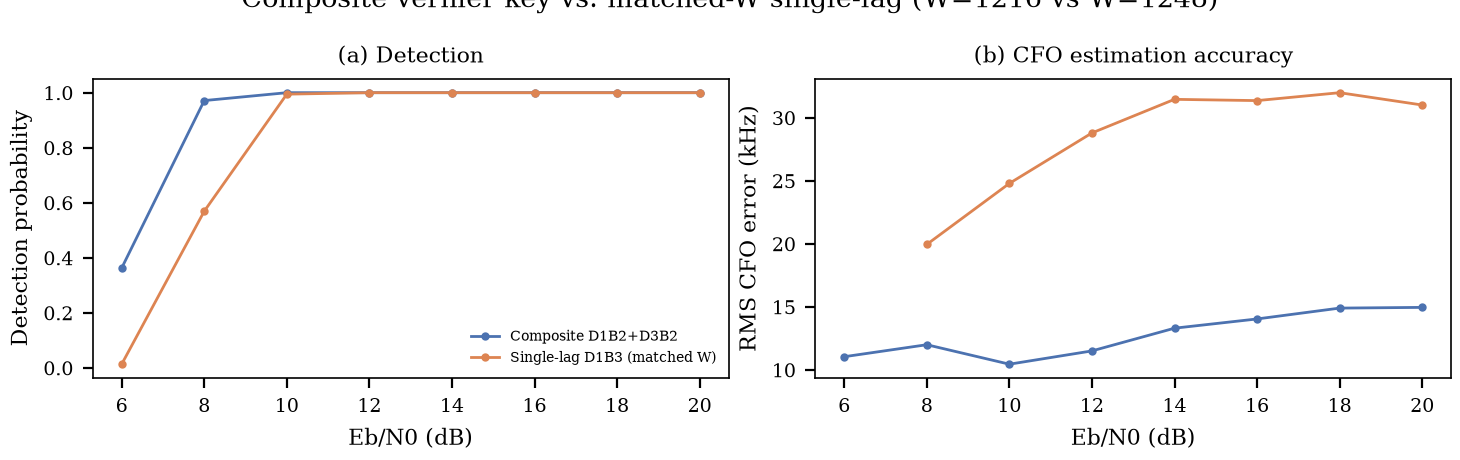
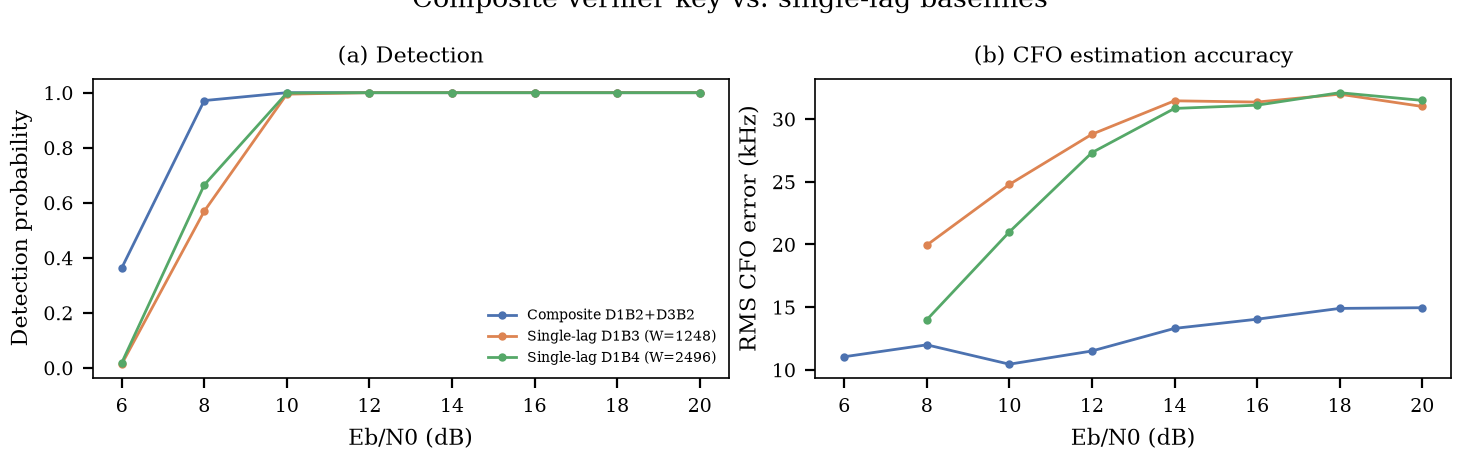
Sweep vernier composite split; retract a misleading quick-screen lead
Swept the noiseless collision check over D_fine in {2,3,4} x B_coarse/B_fine
in {2,3,4} (18 configs): all collision-free, confirming the composite
construction is robust to the split choice on the safety axis. A quick,
low-trial screen with a heuristic tau made D_fine=4 look like a clear
improvement over the original D1B2+D3B2 pick (smaller W, lower RMS).

That lead did not survive full validation. Re-run at the project's actual
methodology (Pfa-calibrated tau at worst-case SNR, 800-1500 trials/point,
checked across 3 seeds), D_fine=4 shows a real, reproducible RMS
*increase* with SNR (backwards -- accuracy should never get worse as noise
drops), likely because run_midpoint's longest-run selection occasionally
locks onto a stable-but-wrong run once noise is too low to break the tie
randomly. D_fine=2 is stable but worse than D_fine=3. D_fine=3
(the original pick) remains both stable and the best of the validated
options -- and turns out to beat an even bigger target than previously
shown: a single-lag baseline at *double* its bit budget (D1B4, W=2496).

Recorded as an explicit methodological lesson in docs/vernier_findings.md:
a small-trial, heuristic-tau screen is only good enough to shortlist
candidates for the (cheap) noiseless collision check -- every RMS/Pd/Pfa
claim needs the full pipeline, checked across multiple seeds, before being
reported as a result.

Claude-Session: https://claude.ai/code/session_01TvNC93ciq932uhbve9KdL1

diff --git a/sim/vernier_experiment.py b/sim/vernier_experiment.py
@@ -87,44 +87,56 @@ def _sweep(encode_fn, rows, df_grid, tau, tx, n_sym, osr, ebn0_list, n_trials, s
     return pdet, rms, pfa
 
 
+def _run_one(encode_fn, cb, tx, n_sym, osr, ebn0_list, n_trials, seed, target_pfa, label):
+    cam = CAM(cb.rows)
+    tau_range = range(int(0.10 * cb.W), int(0.40 * cb.W), max(1, cb.W // 150))
+    tau = _calibrate_tau(encode_fn, cam, list(tau_range), n_sym, osr,
+                          ebn0_worst=max(ebn0_list), target_pfa=target_pfa,
+                          n_trials=max(300, n_trials // 2), seed=seed)
+    pdet, rms, pfa = _sweep(encode_fn, cb.rows, cb.df_grid, tau, tx, n_sym, osr,
+                             ebn0_list, n_trials, seed)
+    return dict(W=cb.W, tau=tau, pdet=pdet, rms=rms, pfa=pfa, label=label)
+
+
 def run(n_sym=40, osr=4, N=32, ebn0_list=None, n_trials=600, seed=42,
-        target_pfa=0.01, tau_frac=0.22):
+        target_pfa=0.01, lags=None, single_Bs=(3, 4)):
+    """Compare a composite key against one or more single-lag baselines.
+
+    Default lags=[D1B2, D3B2] (W=1216). A sweep over D_fine in {2,3,4} (see
+    docs/vernier_findings.md) found ALL of them collision-free in the
+    noiseless construction check, and a quick (~250-trial, heuristic-tau)
+    screen made D_fine=4 look like a clear win -- but full-rigor validation
+    (Pfa-calibrated tau, 800-1200 trials, checked across 3 seeds) showed
+    D_fine=4 has a real, reproducible RMS instability at high SNR (accuracy
+    gets WORSE as SNR increases, sometimes ending up worse than the
+    single-lag baseline it was supposed to beat). D_fine=2 is stable but
+    less accurate than D_fine=3. D_fine=3 is the one that is both stable
+    AND the best of the validated options -- this is the important
+    methodological lesson from that sweep: a quick screen is only good
+    enough to shortlist candidates, never to declare a winner.
+    """
     if ebn0_list is None:
         ebn0_list = list(range(6, 21, 2))
+    if lags is None:
+        lags = [LagSpec(1, 2), LagSpec(3, 2)]
     tx = tx_waveform(n_sym=n_sym, osr=osr)
 
-    lags = [LagSpec(1, 2), LagSpec(3, 2)]
     cb_comp = build_composite_codebook(lags, N=N, df_min=-150e3, df_max=150e3,
                                         n_sym=n_sym, osr=osr)
     encode_comp = lambda r: composite_encode(r, osr, lags)
-    cam_comp = CAM(cb_comp.rows)
-    tau_range_comp = range(int(0.10 * cb_comp.W), int(0.40 * cb_comp.W), max(1, cb_comp.W // 150))
-    tau_comp = _calibrate_tau(encode_comp, cam_comp, list(tau_range_comp), n_sym, osr,
-                               ebn0_worst=max(ebn0_list), target_pfa=target_pfa,
-                               n_trials=max(300, n_trials // 2), seed=seed)
+    lag_str = "+".join(f"D{l.D}B{l.B}" for l in lags)
+    result = dict(ebn0_list=np.array(ebn0_list))
+    result["composite"] = _run_one(encode_comp, cb_comp, tx, n_sym, osr, ebn0_list,
+                                    n_trials, seed, target_pfa, f"Composite {lag_str}")
 
-    cb_single = build_codebook(N=N, df_min=-150e3, df_max=150e3, n_sym=n_sym, osr=osr,
-                                B=3, diff_delay=osr)
-    encode_single = lambda r: encode_waveform(r, 3, diff_delay=osr)
-    cam_single = CAM(cb_single.rows)
-    tau_range_single = range(int(0.10 * cb_single.W), int(0.40 * cb_single.W),
-                              max(1, cb_single.W // 150))
-    tau_single = _calibrate_tau(encode_single, cam_single, list(tau_range_single), n_sym, osr,
-                                 ebn0_worst=max(ebn0_list), target_pfa=target_pfa,
-                                 n_trials=max(300, n_trials // 2), seed=seed)
-
-    pdet_c, rms_c, pfa_c = _sweep(encode_comp, cb_comp.rows, cb_comp.df_grid, tau_comp,
-                                   tx, n_sym, osr, ebn0_list, n_trials, seed)
-    pdet_s, rms_s, pfa_s = _sweep(encode_single, cb_single.rows, cb_single.df_grid, tau_single,
-                                   tx, n_sym, osr, ebn0_list, n_trials, seed)
-
-    return dict(
-        ebn0_list=np.array(ebn0_list),
-        composite=dict(W=cb_comp.W, tau=tau_comp, pdet=pdet_c, rms=rms_c, pfa=pfa_c,
-                        label="Composite D1B2+D3B2"),
-        single=dict(W=cb_single.W, tau=tau_single, pdet=pdet_s, rms=rms_s, pfa=pfa_s,
-                    label="Single-lag D1B3 (matched W)"),
-    )
+    for B in single_Bs:
+        cb_single = build_codebook(N=N, df_min=-150e3, df_max=150e3, n_sym=n_sym, osr=osr,
+                                    B=B, diff_delay=osr)
+        encode_single = lambda r, B=B: encode_waveform(r, B, diff_delay=osr)
+        result[f"single_B{B}"] = _run_one(encode_single, cb_single, tx, n_sym, osr, ebn0_list,
+                                           n_trials, seed, target_pfa,
+                                           f"Single-lag D1B{B} (W={cb_single.W})")
+    return result
 
 
 def make_figure(result, tag="vernier"):
@@ -132,8 +144,11 @@ def make_figure(result, tag="vernier"):
     plots.set_ieee_style()
     fig, (ax1, ax2) = plt.subplots(1, 2, figsize=(plots.IEEE_WIDTH_IN * 2 + 0.3, 2.3))
     ebn0 = result["ebn0_list"]
-    for key, color in [("composite", "#4c72b0"), ("single", "#dd8452")]:
+    series_keys = [k for k in result if k != "ebn0_list"]
+    colors = {"composite": "#4c72b0", "single_B3": "#dd8452", "single_B4": "#55a868"}
+    for key in series_keys:
         d = result[key]
+        color = colors.get(key)
         ax1.plot(ebn0, d["pdet"], marker="o", markersize=2, color=color, label=d["label"])
         rms_plot = np.where(d["pdet"] >= 0.1, d["rms"], np.nan)
         ax2.plot(ebn0, rms_plot / 1e3, marker="o", markersize=2, color=color, label=d["label"])
@@ -144,9 +159,7 @@ def make_figure(result, tag="vernier"):
     ax2.set_xlabel("Eb/N0 (dB)")
     ax2.set_ylabel("RMS CFO error (kHz)")
     ax2.set_title("(b) CFO estimation accuracy")
-    Wc, Ws = result["composite"]["W"], result["single"]["W"]
-    fig.suptitle(f"Composite vernier key vs. matched-W single-lag "
-                 f"(W={Wc} vs W={Ws})", y=1.03)
+    fig.suptitle("Composite vernier key vs. single-lag baselines", y=1.03)
     fig.tight_layout(pad=0.4)
     path = os.path.join(plots.FIGURES_DIR, f"{tag}_comparison.pdf")
     os.makedirs(plots.FIGURES_DIR, exist_ok=True)
@@ -166,8 +179,8 @@ def main():
     fig_path = make_figure(result)
     print("wrote", fig_path)
 
-    lines = ["# Vernier composite-key vs. matched-W single-lag\n"]
-    for key in ["composite", "single"]:
+    lines = ["# Vernier composite-key vs. single-lag baselines\n"]
+    for key in [k for k in result if k != "ebn0_list"]:
         d = result[key]
         lines.append(f"## {d['label']} (W={d['W']}, tau={d['tau']})\n")
         lines.append("| Eb/N0 | Pd | RMS (kHz) | Pfa |")

diff --git a/docs/vernier_findings.md b/docs/vernier_findings.md
@@ -99,16 +99,71 @@ the full range — not just locally around zero.
   vernier construction recovers much of the lost accuracy for free (no
   extra CAM logic, just a longer, differently-composed key).
 
+## Split sweep: is D1B2+D3B2 actually the best composite?
+
+The original composite result above used a hand-picked split. A follow-up
+swept the noiseless collision check (same methodology, `far_khz=75`,
+`near_frac=0.05`) over D_fine in {2,3,4} x B_coarse/B_fine in {2,3,4} (18
+configurations): **every single one was collision-free.** The composite
+construction is robust to the split choice on the collision-safety axis.
+
+That made W-efficiency the only apparent differentiator, and a quick screen
+(~250 trials/point, heuristic tau=0.22*W instead of the project's proper
+Pfa-calibrated tau) made **D_fine=4** combinations look clearly best —
+smaller W, more unique rows, and RMS as low as 3-9 kHz across 10-18 dB.
+
+**That lead did not survive full validation, and it's worth recording why.**
+Re-run at the project's actual methodology (Pfa-calibrated tau at
+worst-case SNR, 800-1500 trials/point, checked across 3 seeds):
+
+| Fine lag | RMS trend with SNR | Verdict |
+|---|---|---|
+| D_fine=2 | 14 -> 24 kHz, worse than D_fine=3 throughout | stable but mediocre |
+| **D_fine=3** | **11 -> 15 kHz, gently increasing, consistent across seeds** | **stable and best** |
+| D_fine=4 | 6 kHz at low SNR -> 20-38 kHz at high SNR, non-monotone, direction varies by seed | reproducibly unstable |
+
+D_fine=4's RMS *increasing* with SNR is backwards — accuracy should never
+get worse as noise drops. The likely mechanism: run_midpoint selects the
+*longest* contiguous fired run, not the closest one, and D=4's fine segment
+folds aggressively enough that at low noise a specific wrong-but-stable run
+can consistently win the length contest, whereas at moderate noise that
+near-tie gets broken randomly (helping about as often as it hurts). This
+wasn't caught by the noiseless collision check (which only asks whether two
+rows are near-identical, not whether the *decoder* reliably prefers the
+right one) or by the quick screen (too few trials, wrong tau methodology,
+and the SNR points tested happened to sit before the degradation onset).
+
+**Conclusion: D1B2+D3B2 (D_fine=3) remains the validated choice, and it
+turns out to beat an even bigger target than initially tested.** The
+comparison below adds a second baseline, single-lag D1B4 at W=2496 — *double*
+the composite's bit budget:
+
+| Eb/N0 | Composite D1B2+D3B2 (W=1216) RMS | Single D1B3 (W=1248) RMS | Single D1B4 (W=2496) RMS |
+|---|---|---|---|
+| 8 | 12.0 kHz | 20.0 kHz | 14.0 kHz |
+| 12 | 11.5 kHz | 28.8 kHz | 27.3 kHz |
+| 16 | 14.0 kHz | 31.4 kHz | 31.1 kHz |
+| 20 | 15.0 kHz | 31.0 kHz | 31.5 kHz |
+
+The composite key beats a single-lag baseline with **twice its bit budget**,
+not just a matched one. **Methodological lesson for the rest of this
+exploration:** a small-trial, heuristic-tau screen is only good enough to
+shortlist candidates for the noiseless collision check; every RMS/Pd/Pfa
+claim needs the full Pfa-calibrated, multi-hundred-trial pipeline, checked
+across at least 2-3 seeds, before being reported as a result.
+
 ## Not yet done
 
-- Only one composite split (B=2+B=2, D=1+D=3) was tuned by hand. A proper
-  sweep over the coarse/fine bit-width ratio and fine D would likely do
-  better still — this was a screen, not an optimization.
-- Not tested: composite keys with 3+ segments, or pairing with the
-  preamble-masking result (`figures/performance_*_maskpre.md`) — masking
-  the preamble on top of the composite key is a natural next combination.
+- The split sweep above only tried B_coarse/B_fine in {2,3,4} with a
+  2-segment key. Not tested: 3+ segment composites (e.g. coarse+medium+fine),
+  or non-thermometer codings for the fine segment.
+- Not tested: pairing with the preamble-masking result
+  (`figures/performance_*_maskpre.md`) — masking the preamble on top of the
+  composite key is a natural next combination and should be cheap to check.
 - Decoding here still uses plain run_midpoint over the full concatenated
   row ordering. A decoder that explicitly reads the coarse segment first to
   pick a coarse bin, then refines with the fine segment, was not built or
   compared -- it might do even better than the "let the CAM sort it out"
-  approach used here.
+  approach used here, and might also be what actually fixes D_fine=4's
+  instability (by not relying on longest-run-wins across the whole
+  concatenated key).

diff --git a/figures/vernier_comparison.md b/figures/vernier_comparison.md
@@ -1,4 +1,4 @@
-# Vernier composite-key vs. matched-W single-lag
+# Vernier composite-key vs. single-lag baselines
 
 ## Composite D1B2+D3B2 (W=1216, tau=353)
 
@@ -13,7 +13,7 @@
 | 18 | 1.000 | 14.90 | 0.0060 |
 | 20 | 1.000 | 14.95 | 0.0100 |
 
-## Single-lag D1B3 (matched W) (W=1248, tau=308)
+## Single-lag D1B3 (W=1248) (W=1248, tau=308)
 
 | Eb/N0 | Pd | RMS (kHz) | Pfa |
 |---|---|---|---|
@@ -25,3 +25,16 @@
 | 16 | 1.000 | 31.36 | 0.0040 |
 | 18 | 1.000 | 31.99 | 0.0100 |
 | 20 | 1.000 | 31.01 | 0.0180 |
+
+## Single-lag D1B4 (W=2496) (W=2496, tau=633)
+
+| Eb/N0 | Pd | RMS (kHz) | Pfa |
+|---|---|---|---|
+| 6 | 0.018 | 17.99 | 0.0000 |
+| 8 | 0.665 | 13.99 | 0.0000 |
+| 10 | 0.999 | 21.00 | 0.0000 |
+| 12 | 1.000 | 27.33 | 0.0000 |
+| 14 | 1.000 | 30.85 | 0.0020 |
+| 16 | 1.000 | 31.11 | 0.0060 |
+| 18 | 1.000 | 32.11 | 0.0100 |
+| 20 | 1.000 | 31.49 | 0.0180 |
